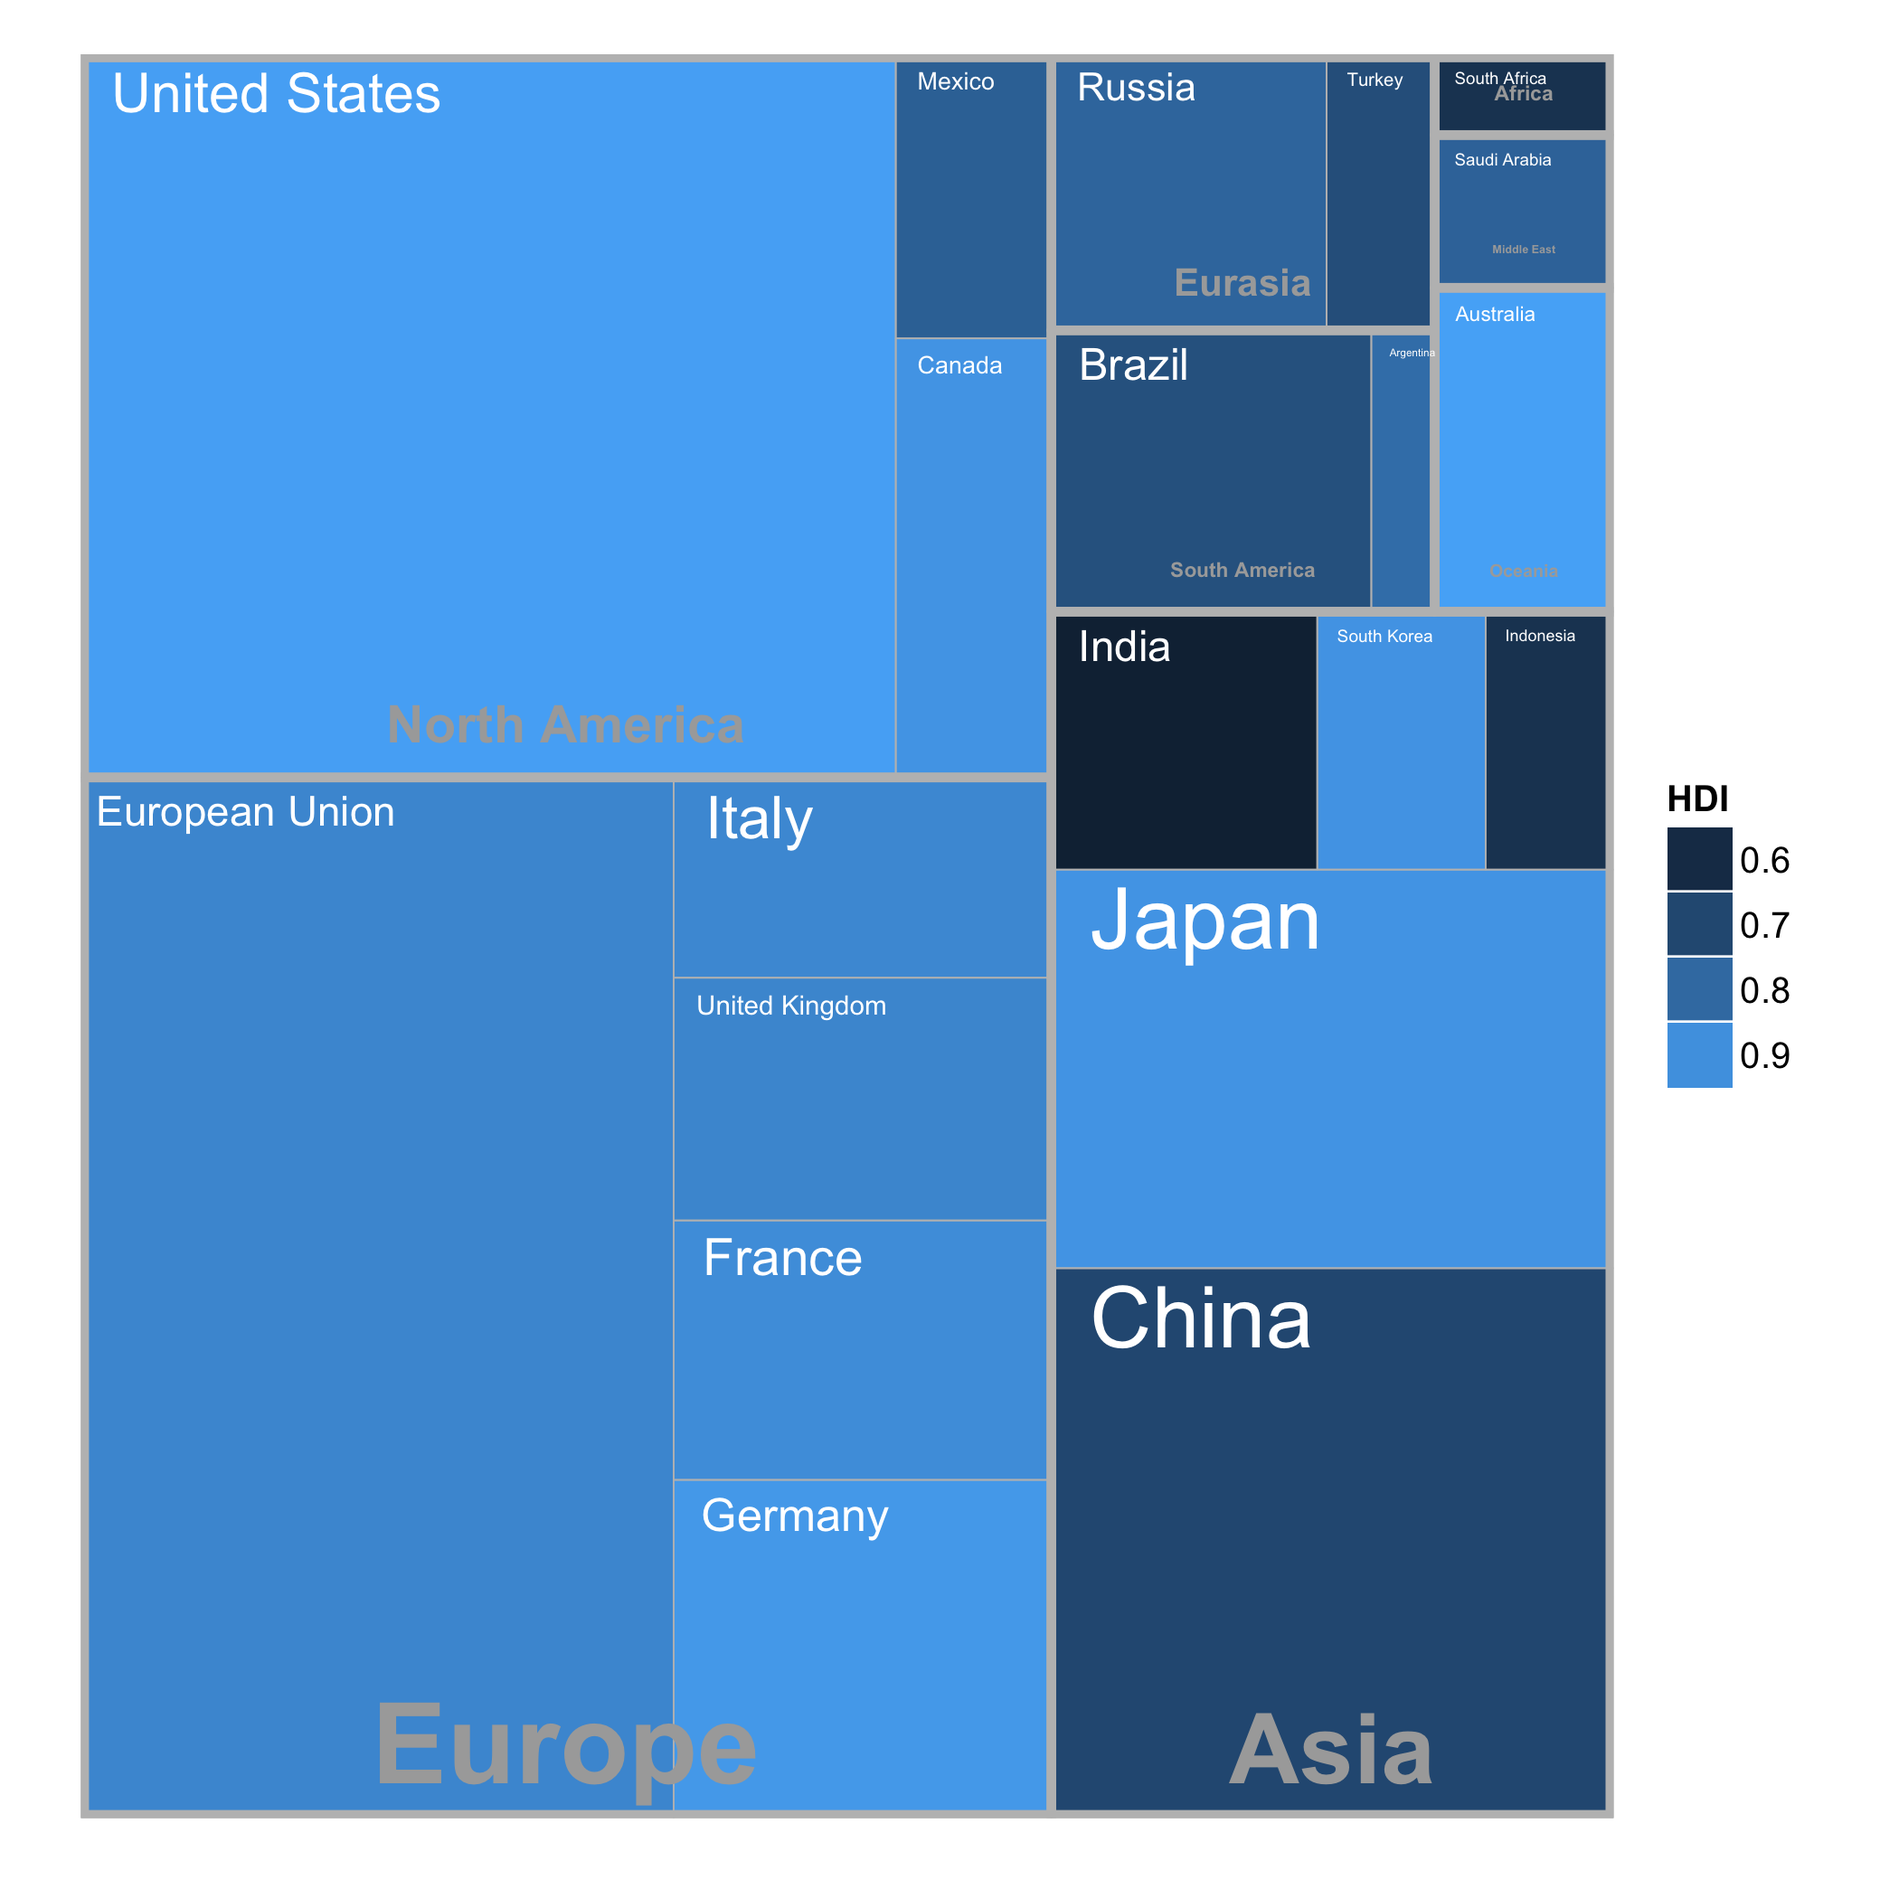
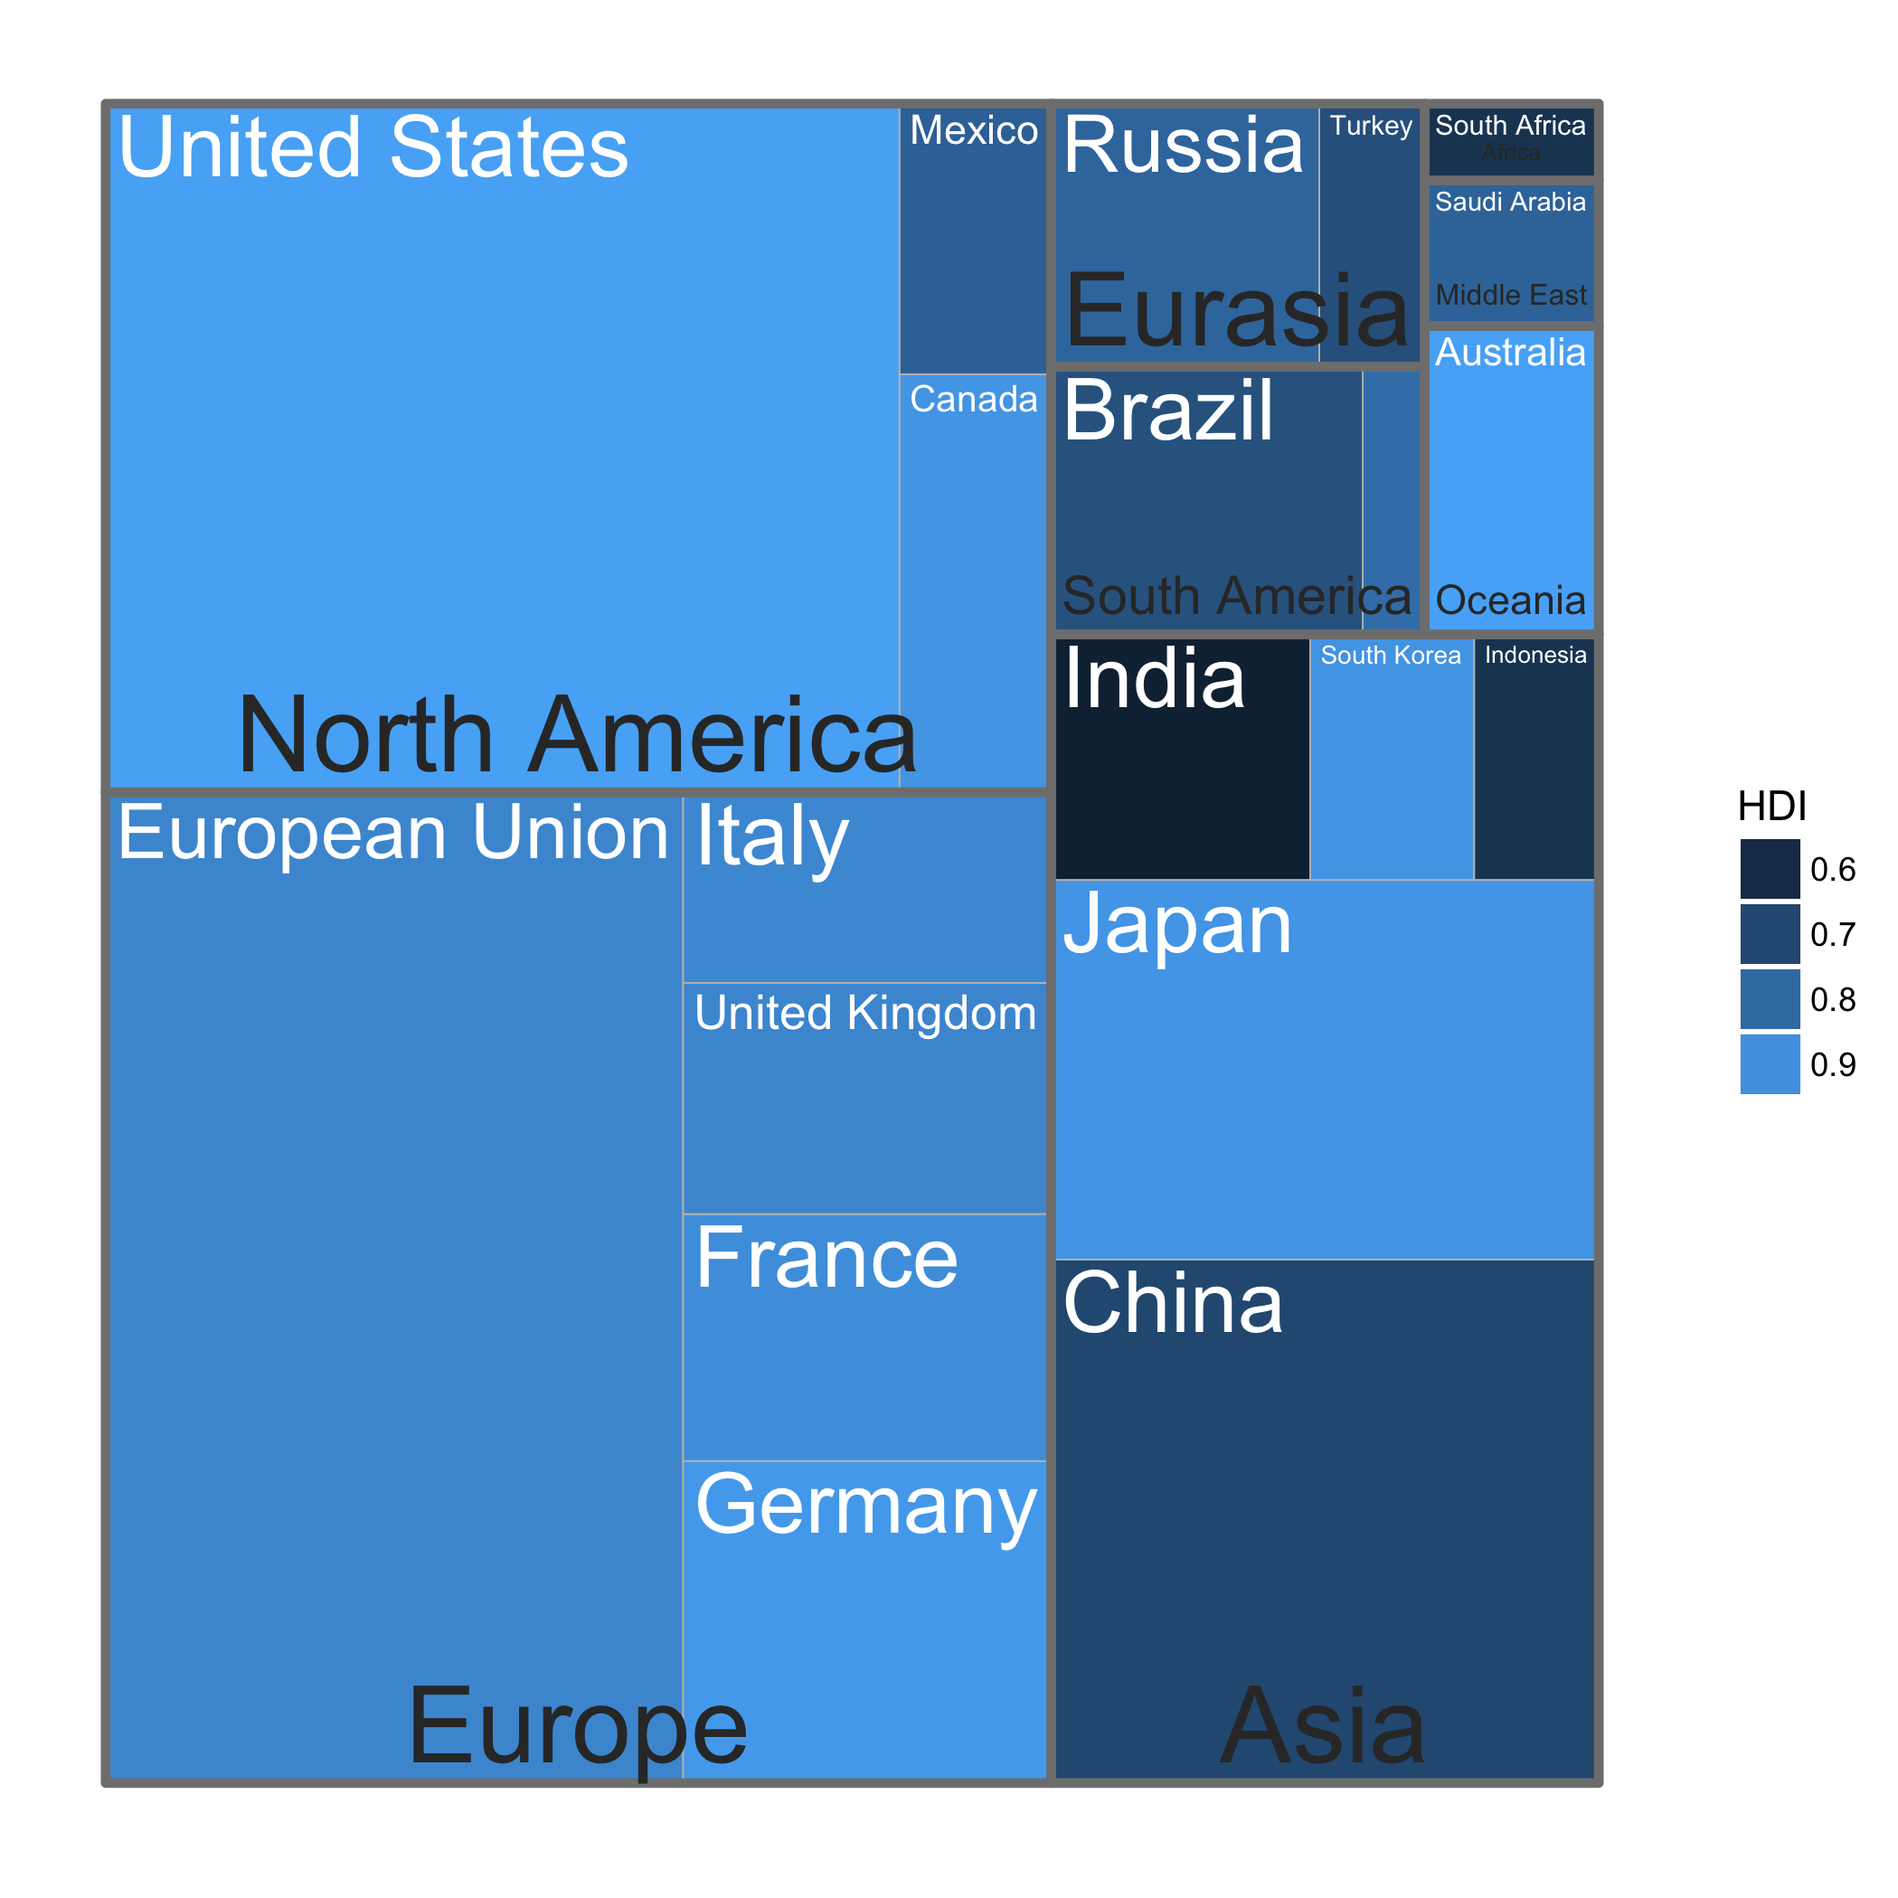
Update README to reflect changes

Changed region(s): [[0.031, 0.031, 0.96, 0.96]]

diff --git a/README.md b/README.md
@@ -6,21 +6,23 @@
 
 ## Dependencies
 
-Install ggplot2, reshape2, plyr and devtools if you don't have them already.
+Install ggplot2, reshape2, plyr, devtools and ggfittext if you don't have them
+already. ggfittext has to be installed from github.
 
-```R
+``` r
 install.packages("ggplot2")
 install.packages("reshape2")
 install.packages("plyr")
 install.packages("devtools")
+library(devtools)
+install_github("wilkox/ggfittext")
 ```
 
 ## Install
 
 Install treemapify.
 
-```R
-library(devtools)
+``` r
 install_github("wilkox/treemapify")
 library(treemapify)
 ```
@@ -35,60 +37,64 @@ For this example, we'll also use a couple of optional columns:
 - A factor column, containing the labels for each rectangle; and
 - A factor column, containing group names to group the rectangles.
 
-Let's plot some economic data for the G-20 group of major world economies.
+Let's plot some economic data for the G-20 group of major world economies. The
+`G20` data frame comes with treemapify.
 
-```R
-data(G20)
-print(G20)
-#           Region         Country Trade.mil.USD Nom.GDP.mil.USD   HDI Population
-# 1         Africa    South Africa        208000          384315 0.629   53000000
-# 2  North America   United States       3969000        15684750 0.937  316173000
-# 3  North America          Canada        962600         1819081 0.911   34088000
-# 4  North America          Mexico        756800         1177116 0.775  112211789
-# 5  South America          Brazil        494800         2395968 0.730  201032714
-# 6  South America       Argentina        152690          474954 0.811   40117096
-# 7           Asia           China       3801000         8227037 0.699 1339724852
-# 8           Asia           Japan       1649800         5963969 0.912  127390000
-# 9           Asia     South Korea       1068700         1155872 0.909   50004441
-# 10          Asia           India        809400         1824832 0.554 1210193422
-# 11          Asia       Indonesia        384100          878198 0.629  237556363
-# 12       Eurasia          Russia        900600         2021960 0.788  143400000
-# 13       Eurasia          Turkey        370800          794468 0.722   72561312
-# 14        Europe  European Union       4567000        16414483 0.876  501259840
-# 15        Europe         Germany       2768000         3400579 0.920   81757600
-# 16        Europe          France       1226400         2608699 0.893   65447374
-# 17        Europe  United Kingdom       1127000         2440505 0.875   62041708
-# 18        Europe           Italy        953000         2014079 0.881   60325805
-# 19   Middle East    Saudi Arabia        518300          727307 0.782   27123977
-# 20       Oceania       Australia        522000         1541797 0.938   22328632
-#    Economic.classification
-# 1               Developing
-# 2                 Advanced
-# 3                 Advanced
-# 4               Developing
-# 5               Developing
-# 6               Developing
-# 7               Developing
-# 8                 Advanced
-# 9                 Advanced
-# 10              Developing
-# 11              Developing
-# 12              Developing
-# 13              Developing
-# 14                Advanced
-# 15                Advanced
-# 16                Advanced
-# 17                Advanced
-# 18                Advanced
-# 19              Developing
-# 20                Advanced
+``` r
+G20
+#>           Region        Country Trade.mil.USD Nom.GDP.mil.USD   HDI
+#> 1         Africa   South Africa        208000          384315 0.629
+#> 2  North America  United States       3969000        15684750 0.937
+#> 3  North America         Canada        962600         1819081 0.911
+#> 4  North America         Mexico        756800         1177116 0.775
+#> 5  South America         Brazil        494800         2395968 0.730
+#> 6  South America      Argentina        152690          474954 0.811
+#> 7           Asia          China       3801000         8227037 0.699
+#> 8           Asia          Japan       1649800         5963969 0.912
+#> 9           Asia    South Korea       1068700         1155872 0.909
+#> 10          Asia          India        809400         1824832 0.554
+#> 11          Asia      Indonesia        384100          878198 0.629
+#> 12       Eurasia         Russia        900600         2021960 0.788
+#> 13       Eurasia         Turkey        370800          794468 0.722
+#> 14        Europe European Union       4567000        16414483 0.876
+#> 15        Europe        Germany       2768000         3400579 0.920
+#> 16        Europe         France       1226400         2608699 0.893
+#> 17        Europe United Kingdom       1127000         2440505 0.875
+#> 18        Europe          Italy        953000         2014079 0.881
+#> 19   Middle East   Saudi Arabia        518300          727307 0.782
+#> 20       Oceania      Australia        522000         1541797 0.938
+#>    Population Economic.classification
+#> 1    53000000              Developing
+#> 2   316173000                Advanced
+#> 3    34088000                Advanced
+#> 4   112211789              Developing
+#> 5   201032714              Developing
+#> 6    40117096              Developing
+#> 7  1339724852              Developing
+#> 8   127390000                Advanced
+#> 9    50004441                Advanced
+#> 10 1210193422              Developing
+#> 11  237556363              Developing
+#> 12  143400000              Developing
+#> 13   72561312              Developing
+#> 14  501259840                Advanced
+#> 15   81757600                Advanced
+#> 16   65447374                Advanced
+#> 17   62041708                Advanced
+#> 18   60325805                Advanced
+#> 19   27123977              Developing
+#> 20   22328632                Advanced
 ```
 
 ## The `treemapify` function
 
-The `treemapify` function generates coordinates for a treemap in which each observation is represented by a rectangle. In this example, each observation is a country; the rectangle's area will be mapped to the country's nominal GDP, while the fill colour will be mapped to the Human Development Index (HDI). We'll also group the countries by region.
+The `treemapify` function generates coordinates for a treemap in which each
+observation is represented by a rectangle. In this example, each observation is
+a country; the rectangle's area will be mapped to the country's nominal GDP,
+while the fill colour will be mapped to the Human Development Index (HDI). We'll
+also group the countries by region.
 
-```R
+``` r
 treeMapCoordinates <- treemapify(
   G20,
   area = "Nom.GDP.mil.USD",
@@ -96,31 +102,52 @@ treeMapCoordinates <- treemapify(
   label = "Country",
   group = "Region"
 )
-print(treeMapCoordinates)
-#     fill           label     xmin      xmax     ymin      ymax         group
-# 1  0.876  European Union  0.00000  38.66972  0.00000  58.99641        Europe
-# 2  0.920         Germany 38.66972  63.32079  0.00000  19.17284        Europe
-# 3  0.893          France 38.66972  63.32079 19.17284  33.88097        Europe
-# 4  0.875  United Kingdom 38.66972  63.32079 33.88097  47.64081        Europe
-# 5  0.881           Italy 38.66972  63.32079 47.64081  58.99641        Europe
-# 6  0.937   United States  0.00000  53.16491 58.99641 100.00000 North America
-# 7  0.911          Canada 53.16491  63.32079 58.99641  83.89092 North America
-# 8  0.775          Mexico 53.16491  63.32079 83.89092 100.00000 North America
-# 9  0.699           China 63.32079 100.00000  0.00000  31.17403          Asia
-# 10 0.912           Japan 63.32079 100.00000 31.17403  53.77280          Asia
-# 11 0.554           India 63.32079  80.66598 53.77280  68.39502          Asia
-# 12 0.909     South Korea 80.66598  91.65265 53.77280  68.39502          Asia
-# 13 0.629       Indonesia 91.65265 100.00000 53.77280  68.39502          Asia
-# 14 0.730          Brazil 63.32079  84.19372 68.39502  84.34892 South America
-# 15 0.811       Argentina 84.19372  88.33138 68.39502  84.34892 South America
-# 16 0.788          Russia 63.32079  81.27630 84.34892 100.00000       Eurasia
-# 17 0.722          Turkey 81.27630  88.33138 84.34892 100.00000       Eurasia
-# 18 0.938       Australia 88.33138 100.00000 68.39502  86.75942       Oceania
-# 19 0.782    Saudi Arabia 88.33138 100.00000 86.75942  95.42241   Middle East
-# 20 0.629    South Africa 88.33138 100.00000 95.42241 100.00000        Africa
+treeMapCoordinates
+#>     fill          label     xmin      xmax     ymin      ymax
+#> 1  0.876 European Union  0.00000  38.66972  0.00000  58.99641
+#> 2  0.920        Germany 38.66972  63.32079  0.00000  19.17284
+#> 3  0.893         France 38.66972  63.32079 19.17284  33.88097
+#> 4  0.875 United Kingdom 38.66972  63.32079 33.88097  47.64081
+#> 5  0.881          Italy 38.66972  63.32079 47.64081  58.99641
+#> 6  0.937  United States  0.00000  53.16491 58.99641 100.00000
+#> 7  0.911         Canada 53.16491  63.32079 58.99641  83.89092
+#> 8  0.775         Mexico 53.16491  63.32079 83.89092 100.00000
+#> 9  0.699          China 63.32079 100.00000  0.00000  31.17403
+#> 10 0.912          Japan 63.32079 100.00000 31.17403  53.77280
+#> 11 0.554          India 63.32079  80.66598 53.77280  68.39502
+#> 12 0.909    South Korea 80.66598  91.65265 53.77280  68.39502
+#> 13 0.629      Indonesia 91.65265 100.00000 53.77280  68.39502
+#> 14 0.730         Brazil 63.32079  84.19372 68.39502  84.34892
+#> 15 0.811      Argentina 84.19372  88.33138 68.39502  84.34892
+#> 16 0.788         Russia 63.32079  81.27630 84.34892 100.00000
+#> 17 0.722         Turkey 81.27630  88.33138 84.34892 100.00000
+#> 18 0.938      Australia 88.33138 100.00000 68.39502  86.75942
+#> 19 0.782   Saudi Arabia 88.33138 100.00000 86.75942  95.42241
+#> 20 0.629   South Africa 88.33138 100.00000 95.42241 100.00000
+#>            group
+#> 1         Europe
+#> 2         Europe
+#> 3         Europe
+#> 4         Europe
+#> 5         Europe
+#> 6  North America
+#> 7  North America
+#> 8  North America
+#> 9           Asia
+#> 10          Asia
+#> 11          Asia
+#> 12          Asia
+#> 13          Asia
+#> 14 South America
+#> 15 South America
+#> 16       Eurasia
+#> 17       Eurasia
+#> 18       Oceania
+#> 19   Middle East
+#> 20        Africa
 ```
 
-The "xmin", "xmax", "ymin" and "ymax" columns give the boundaries of each rectangle.
+The ‘xmin’, ‘xmax’, ‘ymin’ and ‘ymax’ columns give the boundaries of each rectangle.
 
 For publication-quality graphics, it's recommended that you stop at this point and use the coordinates to draw your own plot with custom parameters. For quick-and-dirty exploratory graphics, however, treemapify provides an additional helper function.
 
@@ -128,38 +155,37 @@ For publication-quality graphics, it's recommended that you stop at this point a
 
 As the name suggests, this function takes output from `treemapify` and produces a [ggplot](http://ggplot2.org) object containing a graphical layout of the treemap.
 
-```R
-treeMapPlot <- ggplotify(treeMapCoordinates)
-print(treeMapPlot)
+``` r
+ggplotify(treeMapCoordinates)
 ```
 
 ![Treemap of G20 data, produced with ggplotify](examples/G20.png)
 
-The function will try to scale labels to fit rectangles. It's not perfect.
+`ggplotify` uses the `ggfittext` package to scale labels down to fit the rects.
+By default, text that is too small to read (< 4pt) will be hidden (in this
+example, ‘Argentina’ has been hidden). `ggplotify` provides some options for
+customising the way rect and group labels are displayed; for example, the group
+label can be blown up to fill the entire group:
 
-Because ggplot *is* perfect, it will automatically figure out whether to use a discrete or continuous fill scale:
-
-```R
-treeMapCoordinates <- treemapify(
-  G20,
-  area = "Nom.GDP.mil.USD",
-  fill = "Economic.classification",
-  label = "Country",
-  group = "Region"
-)
-treeMapPlot <- ggplotify(treeMapCoordinates)
-print(treeMapPlot)
+``` r
+ggplotify(treeMapCoordinates, group.label.type = "fill")
 ```
 
-![Treemap of G20 data, produced with ggplotify, with fill mapped to a discrete scale](examples/G20_discrete.png)
+![Expanding group label to fill group area](examples/group_fill.png)
 
-And because the output is a ggplot object, you can add custom scales and other tweaks.
+There are several graphical options of this sort; read the documentation with
+`?ggplotify` for full details.
 
-```R
-treeMapPlot <- treeMapPlot + scale_fill_manual(values = c("blue", "green"))
+Because the output of `ggplotify` is a ggplot2 object, you can modify it as you
+would any ggplot2 plot, with custom scales and other tweaks.
+
+``` r
+treeMapPlot <- ggplotify(treeMapCoordinates)
+treeMapPlot <- treeMapPlot + scale_fill_gradient(low = "blue", high = "green",
+                                                 guide = "colourbar")
 treeMapPlot <- treeMapPlot + theme(legend.text = element_text(family = "serif"))
 treeMapPlot <- treeMapPlot + ggtitle("The G-20 in stunning Technicolor")
-print(treeMapPlot)
+treeMapPlot
 ```
 
 ![Treemap of G20 data, produced with ggplotify, with fill mapped to a discrete scale, a custom fill scale and other 'improvements'](examples/G20_splendid.png)
